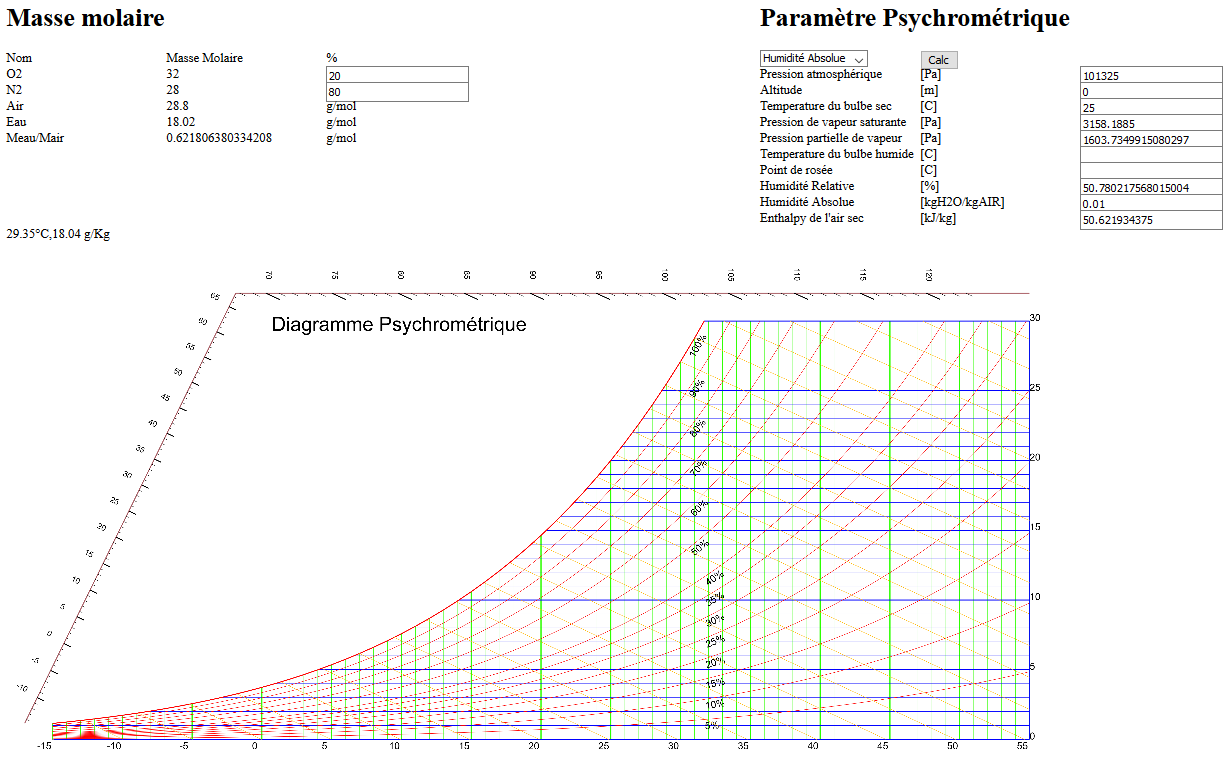
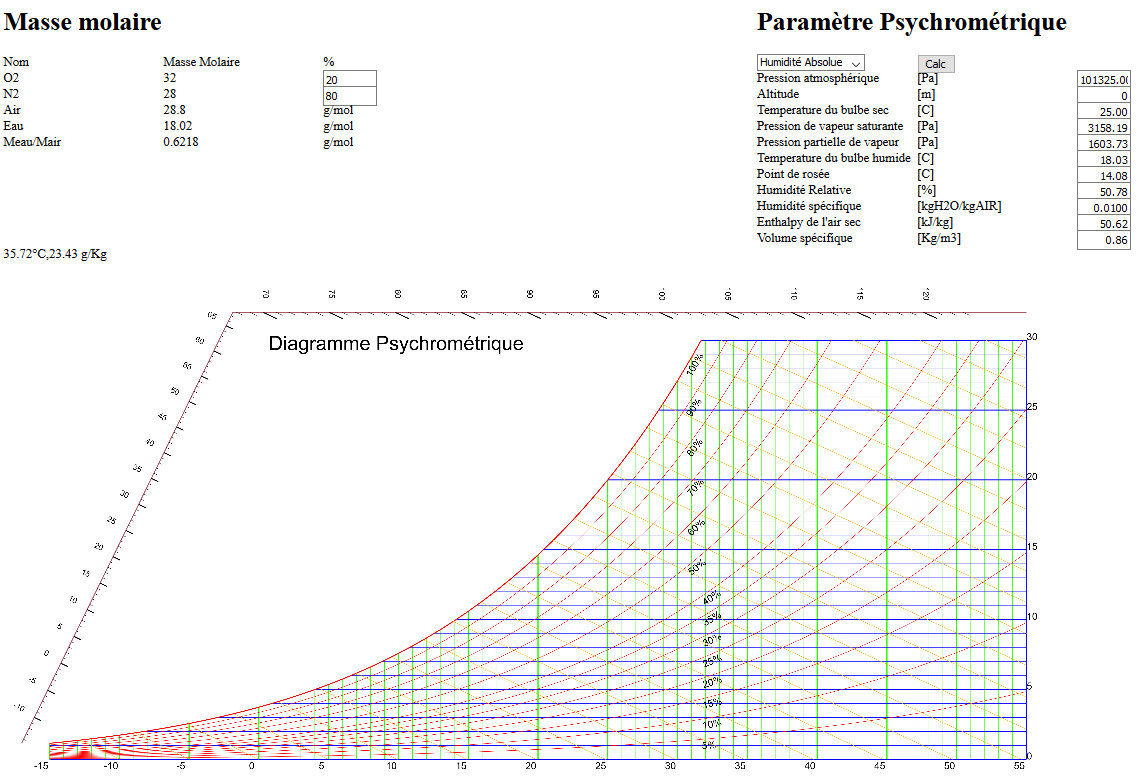
Complete Formule

diff --git a/psychrometric.js b/psychrometric.js
@@ -75,6 +75,8 @@ function Psychrometrics() {
     this.Pvs;
     this.Pv;
     this.TWet;
+    this.Tr;
+    this.Th;
     this.HR; //Humidity Relative
     this.R;// Humidité Absolue
     this.H; // Anthalpie
@@ -137,18 +139,18 @@ function Psychrometrics() {
      pvap > Pvs(T) : condensation.
 
      ⇒ Chaleurs massiques :
-     Vapeur		1.854 = kJ/kg/°C
-     Liquide 	4.1868= kJ/kg/°C
-     Solide 		2.093 = kJ/kg/°C
+     Vapeur        1.854 = kJ/kg/°C
+     Liquide    4.1868= kJ/kg/°C
+     Solide        2.093 = kJ/kg/°C
      ⇒ Chaleurs de vaporisation et de fusion :
      Vaporisation (0 °C) 2501.6 kJ/kg
-     Fusion (0 °C) 		 333.5 kJ/kg
+     Fusion (0 °C)         333.5 kJ/kg
      */
     /*  L0 [kJ/kg] la chaleur latente de vaporisation de l´eau à 0 °C*/
     var L = 2.470 * Math.pow(10, 6);
     var L0 = 2501.6;// kJ / kg;
-
-    var Cp = 1006;                  //J/kg/K ??
+    var Cm = 4.1868;
+    var Cp = 1.006;                  //J/kg/K ??
 
     var Cpa = function (T) {
         if (T === undefined)
@@ -171,14 +173,14 @@ function Psychrometrics() {
     Cpa [kJ/kg] la chaleur massique de l´air sec,
     Cpv [kJ/kg] la chaleur massique de la vapeur d´eau à 0 °C et a pression absolue de 101 325 Pa.
     L0  [kJ/kg] la chaleur latente de vaporisation de l´eau à 0 °C*/
-   this.calcEnthalpie = function (T, r) {
+    this.calcEnthalpie = function (T, r) {
         var _Cpv = Cpv(T);
         var _Cpa = Cpa(T);
         return _Cpa * T + r * (L0 + _Cpv * T);
     }
 
 // Calcul de Vapeur Saturation de l'air [Pa] Méthode sur le Web
-   var AutrePvs = function (T) {
+    var AutrePvs = function (T) {
         // Pression de Vapeur Saturation de l'air [Pa]
         Pvs = 8.07131 - 1730.63 / (233.426 + T);
         if (99 < T && T <= 374)
@@ -188,7 +190,7 @@ function Psychrometrics() {
 
     }
 
-   var calcTfromPvsAutre = function (Pvs) {
+    var calcTfromPvsAutre = function (Pvs) {
         return 1730.63 / (8.07131 - Math.log10(Pvs * 0.0075)) - 233.426;
     }
 
@@ -201,17 +203,17 @@ function Psychrometrics() {
     }
 
     /* Choix entre Claperone ou Autre */
-   this.calcTfromPvs = function (Pvs) {
-        return calcTfromPvsAutre.call(this,Pvs);
+    this.calcTfromPvs = function (Pvs) {
+        return calcTfromPvsAutre.call(this, Pvs);
     }
 
-     /*
-    Calcul renversée de la pression de la vapeur de saturation de l'air  A TESTER
-    Méthode Clapeyron
-        @PARAM Humidité Relative %
-        @PARAM R le rapport de mélange eau/air sec [kg/kg]
-        @RETURN T la Température du bulbe sèc [C°]
-    */
+    /*
+   Calcul renversée de la pression de la vapeur de saturation de l'air  A TESTER
+   Méthode Clapeyron
+       @PARAM Humidité Relative %
+       @PARAM R le rapport de mélange eau/air sec [kg/kg]
+       @RETURN T la Température du bulbe sèc [C°]
+   */
     this.calcTsecClapeyron = function (HR, R) {
         Pvs = 100 * R * this.Pression / ((this.RapportMolaireEauSurAir + R) * HR);
         return 1 / (1 / T0 - (Rgas / this.MassMolaireEau) / L * Math.log(this.Pression / 100 / P0));
@@ -229,6 +231,48 @@ function Psychrometrics() {
     @PARAM T la température du bulbe sec [°C]
     @RETURN R le rapport de mélange eau/air sec [kg/kg]
     */
+    //this.calcFromThTs = function (Tdb, Twb, P){
+    this.calcRFromThTs = function (T, Th, P) {
+        /*
+        ''' Function to calculate humidity ratio [kg H2O/kg air]
+            Given dry bulb and wet bulb temp inputs [degC]
+            ASHRAE Fundamentals handbood (2005)
+                Tdb = Dry bulb temperature [degC]
+                Twb = Wet bulb temperature [degC]
+                P = Ambient Pressure [kPa]
+        '''
+    */
+//        Pws = Sat_press(Twb);
+        Pvs = this.calcPvs(Th);
+        Rsat = this.RapportMolaireEauSurAir * Pvs / (P - Pvs);//        # Equation 23, p6.8
+        if (T >= 0)                                               //  # Equation 35, p6.9
+            return (((L0 - 2.326 * Th) * Rsat - Cpa(T) * (T - Th)) /
+                (2501 + Cpv(T) * T - Cm * Th));
+        else                                  // # Equation 37, p6.9
+            return (((2830 - 0.24 * Th) * Rsat - Cpa(T) * (T - Th)) /
+                (2830 + Cpv(T) * T - 2.1 * Th));
+    }
+    /*
+    Calcul de la température humide
+            Tdb = Dry bulb temperature [degC]
+            RH = Relative humidity ratio [Fraction or %]
+            P = Ambient Pressure [kPa]
+        Uses Newton-Rhapson iteration to converge quickly
+*/
+
+    this.calcTh = function (T, RH, P) {
+        var R = this.calcR(RH, T, P);
+        var Th = T;
+
+//    ' Solves to within 0.001% accuracy using Newton-Rhapson'
+        R1 = this.calcRFromThTs(T, Th, P);
+        while (Math.abs((R1 - R) / R) > 0.00001) {
+            R2 = this.calcRFromThTs(T, Th - 0.001, P);
+            Th = Th - (R1 - R) * 0.001 / (R1 - R2);
+            R1 = this.calcRFromThTs(T, Th, P);
+        }
+        return Th;
+    }
     this.calcR = function (HR, T, P) {
         if (P === undefined)
             P = this.Pression;
@@ -307,9 +351,34 @@ function Psychrometrics() {
         return (Enthalpie - _Cpa * T) / (L0 + _Cpv * T);
     }
 
-    this.calcRapportMassEauAir = function (Enthalpie, T) {
-        return (Enthalpie - Cpa(T) * T) / (L0 + Cpv(T) * T);
+
+    /*
+
+    Point de rosée
+    FORMULE =>  Tr = b * alpha(T,RH)/(a - alpha(T,RH));
+    avec alpha(T,RH) = a * T / ( b + T) + ln RH
+    a = 17,27 et b=237,7 [°C].
+    @PARAM HR                                 Humidité relative
+    @PARAM T    [C°] la Température du bulbe sec
+    @RETURN Tr                 [C°] la température du point de rosée.
+
+*/
+    this.calcTr = function (HR, T) {
+
+        if (0 > T || T > 60)
+            return false;
+
+        if (HR < 0.01 || 100 < HR)
+            return false;
+
+        var a = 17.27;
+        var b = 237.7;
+
+        var alpha = a * T / ( b + T) + Math.log(HR / 100);
+
+        return b * alpha / (a - alpha);
     }
+
 
     this.calc = function () {
         // En premier, toujours la pression de vapeur saturante;
@@ -326,6 +395,8 @@ function Psychrometrics() {
         }
         this.Enthalpie = this.calcEnthalpie(this.Tsec, this.R);
         this.Vs = this.calcVs(this.R, this.Tsec, this.Pression);
+        this.Th = this.calcTh(this.Tsec, this.HR, this.Pression);
+        this.Tr = this.calcTr(this.HR, this.Tsec);
     }
 
 }

diff --git a/main.html b/main.html
@@ -31,14 +31,17 @@
             }
             Psychro.calc();
 
-            document.getElementById("Pvs").value = parseFloat(Psychro.Pvs).toFixed(0);
-            document.getElementById("Pv").value = parseFloat(Psychro.Pv).toFixed(0);
+            document.getElementById("Pvs").value = parseFloat(Psychro.Pvs).toFixed(2);
+            document.getElementById("Pv").value = parseFloat(Psychro.Pv).toFixed(2);
             document.getElementById("R").value = parseFloat(Psychro.R).toFixed(4);
-            document.getElementById("HR").value = parseFloat(Psychro.HR).toFixed(0);
-            document.getElementById("Tsec").value = parseFloat(Psychro.Tsec).toFixed(0);
+            document.getElementById("HR").value = parseFloat(Psychro.HR).toFixed(2);
+            document.getElementById("Tsec").value = parseFloat(Psychro.Tsec).toFixed(2);
             document.getElementById("Rapport").innerHTML = parseFloat(Psychro.RapportMolaireEauSurAir).toFixed(4);
-            document.getElementById("Enthalpie").value = parseFloat(Psychro.Enthalpie).toFixed(0);
-            document.getElementById("Pression").value = parseFloat(Psychro.Pression).toFixed(0);
+            document.getElementById("Enthalpie").value = parseFloat(Psychro.Enthalpie).toFixed(2);
+            document.getElementById("Pression").value = parseFloat(Psychro.Pression).toFixed(2);
+            document.getElementById("Tr").value = parseFloat(Psychro.Tr).toFixed(2);
+            document.getElementById("Th").value = parseFloat(Psychro.Th).toFixed(2);
+            document.getElementById("Vs").value = parseFloat(Psychro.Vs).toFixed(2);
 
             Graph.draw("graph");
         }
@@ -93,8 +96,8 @@
         <div style="display: table-cell;">
 
             <h1>Paramètre Psychrométrique</h1>
-            <div>
-                <div>
+            <div class="align">
+                <div >
                     <select name="option" id="option" onchange="upOption();">
                         <option value="R">Humidité Absolue</option>
                         <option value="HR">Humidité Relative</option>
@@ -104,56 +107,61 @@
                     <div></div>
                 </div>
             </div>
-            <div class="left" id="Param">
-                <div class="align">
+            <div >
+                <div class="align" >
                     <div>Pression atmosphérique</div>
                     <div>[Pa]</div>
-                    <div><input type="text" id="Pression" value="101325"  readonly="true"></input></div>
+                    <div><input type="text" id="Pression" value="101325"  readonly="true" class="right"></input></div>
                 </div>
                 <div class="align">
                     <div>Altitude</div>
                     <div>[m]</div>
-                    <div><input type="text" id="Altitude" value="0"></input></div>
+                    <div><input type="text" id="Altitude" value="0" class="right"></input></div>
                 </div>
                 <div class="align">
                     <div>Temperature du bulbe sec</div>
                     <div>[C]</div>
-                    <div><input type="text" id="Tsec" value="25"></input></div>
+                    <div><input type="text" id="Tsec" value="25" class="right"></input></div>
                 </div>
                 <div class="align">
                     <div>Pression de vapeur saturante</div>
                     <div>[Pa]</div>
-                    <div><input type="text" id="Pvs" value="" readonly="true"></input></div>
+                    <div><input type="text" id="Pvs" value="" readonly="true" class="right"></input></div>
                 </div>
                 <div class="align">
                     <div>Pression partielle de vapeur</div>
                     <div>[Pa]</div>
-                    <div><input type="text" id="Pv" value="" readonly="true" ></input></div>
+                    <div><input type="text" id="Pv" value="" readonly="true" class="right"></input></div>
                 </div>
                 <div class="align">
                     <div>Temperature du bulbe humide</div>
                     <div>[C]</div>
-                    <div><input type="text" id="Thum" value="" readonly="true"></input></div>
+                    <div><input type="text" id="Th" value="" readonly="true" class="right"></input></div>
                 </div>
                 <div class="align">
                     <div>Point de rosée</div>
                     <div>[C]</div>
-                    <div><input type="text" id="Tros" readonly="true"></input></div>
+                    <div><input type="text" id="Tr" readonly="true" class="right"></input></div>
                 </div>
                 <div class="align">
                     <div>Humidité Relative</div>
                     <div>[%]</div>
-                    <div><input type="text" id="HR" value="50" pattern="[0-9]{.}"></input></div>
+                    <div><input type="text" id="HR" value="50" pattern="[0-9]{.}" class="right"></input></div>
                 </div>
                 <div class="align">
                     <div>Humidité spécifique</div>
                     <div>[kgH2O/kgAIR]</div>
-                    <div><input type="text" id="R" value="0.010" pattern="[0-9]{.}"></input></div>
+                    <div><input type="text" id="R" value="0.010" pattern="[0-9]{.}" class="right"></input></div>
                 </div>
                 <div class="align">
                     <div>Enthalpy de l'air sec</div>
                     <div>[kJ/kg]</div>
-                    <div><input type="text" id="Enthalpie" readonly="true"></input></div>
+                    <div><input type="text" id="Enthalpie" readonly="true" class="right"></input></div>
+                </div>
+                <div class="align">
+                    <div>Volume spécifique</div>
+                    <div>[Kg/m3]</div>
+                    <div><input type="text" id="Vs" readonly="true" class="right"></input></div>
                 </div>
             </div>
         </div>

diff --git a/style.css b/style.css
@@ -17,10 +17,11 @@
     height: 20px;
 
 }
-/*Todo DONT WORK!*/
-#Param > input[type="text"] {
-    text-align: right;
+input[type="text"] {
+    width: 60px;
 }
-.left > input[type="text"] {
+
+/*Todo DONT WORK!*/
+.right {
     text-align: right;
 }
